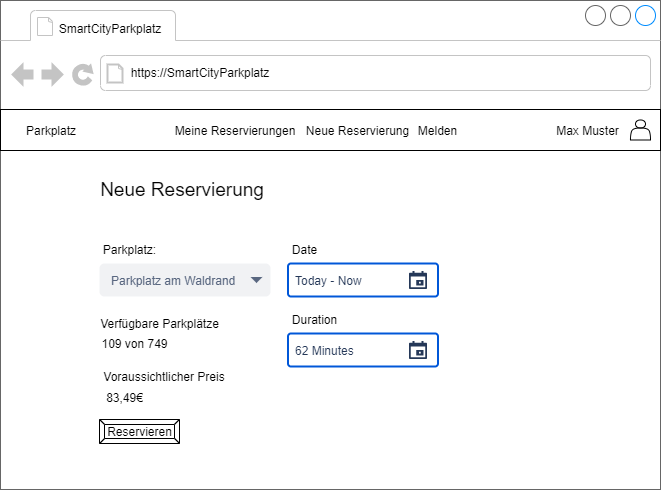
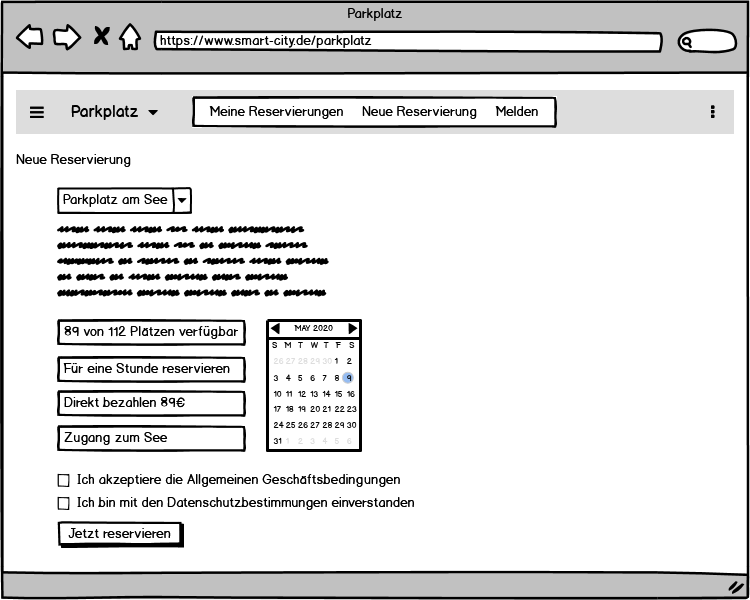
Mockup ersetzen und irrelevante Login-Mockup entfernen, Fehlerbehandlung hinzufügen, Funktionale Anforderungen aufspalten und gruppieren

diff --git a/docs/sven_simikin/Spezifikation_Parkplatz.md b/docs/sven_simikin/Spezifikation_Parkplatz.md
@@ -68,8 +68,11 @@ ist nicht vorgesehen.
 | Stammkunde welcher Parkplatz reservieren möchte  | Stammkunde | Ist mit dem Reservierungsprozess aus Erfahrung vertraut       | Möchte Parkplatz für sich selbst reservieren                                               |
 
 ## 2.2 Funktionale Anforderungen
+### Kunde
+![customer_use_case](img/customer_use_case.png)
 
-![customer_entity_use_case](img/customer_entity_use_case.png)
+### Entität
+![entity_use_case](img/entity_use_case.png)
 
 ## 2.3 Nicht-funktionale Anforderungen 
 
@@ -112,9 +115,6 @@ Anforderungen.
 | Prüfbarkeit                |-         |-    |X       |-               |
 
 ## 2.4 Graphische Benutzerschnittstelle
-
-## Login
-![login](img/login.png)
 
 ## Meine Reservierungen
 ![my_reservations](img/my_reservations.png)
@@ -374,18 +374,18 @@ Die resultierende Payload dieses Ereignisses ist wie folgt definiert:
 
 ## 3.7 Fehlerbehandlung 
 
-* Der Service(Backend) ist nicht Verfügbar
-* Der Benutzer kann sich nicht einloggen
-* Der Benutzer kann sich nicht ausloggen
-* Benutzerdaten konnten nicht abgerufen werden
-* Es konnte kein Parkplatz reserviert werden
-* Falschparker konnten nicht gemeldet werden
-* Die Reservierungshistorie kann nicht angezeigt werden
-* Eine Reservierung konnte nicht bearbeitet werden
-* Eine Reservierung konnte nicht storniert werden
-* Parkfläche konnte nicht bereitgestellt werden
-* Parkfläche konnte nicht bearbeitet werden
-* Parkfläche konnte nicht entfernt werden
+* Der Service(Backend) ist nicht verfügbar → Fehlermeldung im Frontend anzeigen
+* Der Service(Frontend) ist nicht verfügbar → Fehler nicht behandeln
+* Der Benutzer kann sich nicht einloggen → Fehlermeldung im Frontend anzeigen
+* Der Benutzer kann sich nicht ausloggen → Fehlermeldung im Frontend anzeigen
+* Benutzerdaten konnten nicht abgerufen werden → Fehlermeldung im Frontend anzeigen
+* Falschparker konnten nicht gemeldet werden → Fehlermeldung im Frontend anzeigen
+* Die Reservierungshistorie kann nicht angezeigt werden → Fehlermeldung im Frontend anzeigen
+* Es konnte kein Parkplatz reserviert werden → Fehlermeldung im Frontend anzeigen / Fehlermeldung per gRPC zurückgeben
+* Eine Reservierung konnte nicht storniert werden → Fehlermeldung im Frontend anzeigen / Fehlermeldung per gRPC zurückgeben
+* Parkfläche konnte nicht bereitgestellt werden → Fehlermeldung per gRPC zurückgeben
+* Parkfläche konnte nicht bearbeitet werden → Fehlermeldung per gRPC zurückgeben
+* Parkfläche konnte nicht entfernt werden → Fehlermeldung per gRPC zurückgeben
 
 ## 3.8 Validierung
 
@@ -395,11 +395,18 @@ Die resultierende Payload dieses Ereignisses ist wie folgt definiert:
 
 ## 4.1 Annahmen
 
-- Nicht durch den Kunden definierte spezifische Annahmen, Anforderungen und Abhängigkeiten
-- Verwendete Technologien (Programmiersprache, Frameworks, etc.)
-- Aufteilung in Repositories gemäß Software- und Systemarchitektur und Softwarebbausteinen 
-- Einschränkungen, Betriebsbedingungen und Faktoren, die die Entwicklung beeinflussen (Betriebssysteme, Entwicklungsumgebung)
-- Interne Qualitätsanforderungen (z.B. Softwarequalitätsmerkmale wie z.B. Erweiterbarkeit)
+### Verwendete Technologien 
+#### Frontend
+- Angular - Front-End-Webapplikationsframework 
+- NGINX - Webserver
+- AngularFire - Angular Firebase client library
+#### Backend
+- amqplib - RabbitMQ AMQP Client
+- nodemon/node - Webserver
+- Node gRPC Library - gRPC Framework for Node 
+- Node Redis - Redis client for Node
+#### Database
+- Redis - In-Memory Database 
 
 ## 4.2 Verantwortlichkeiten
 
